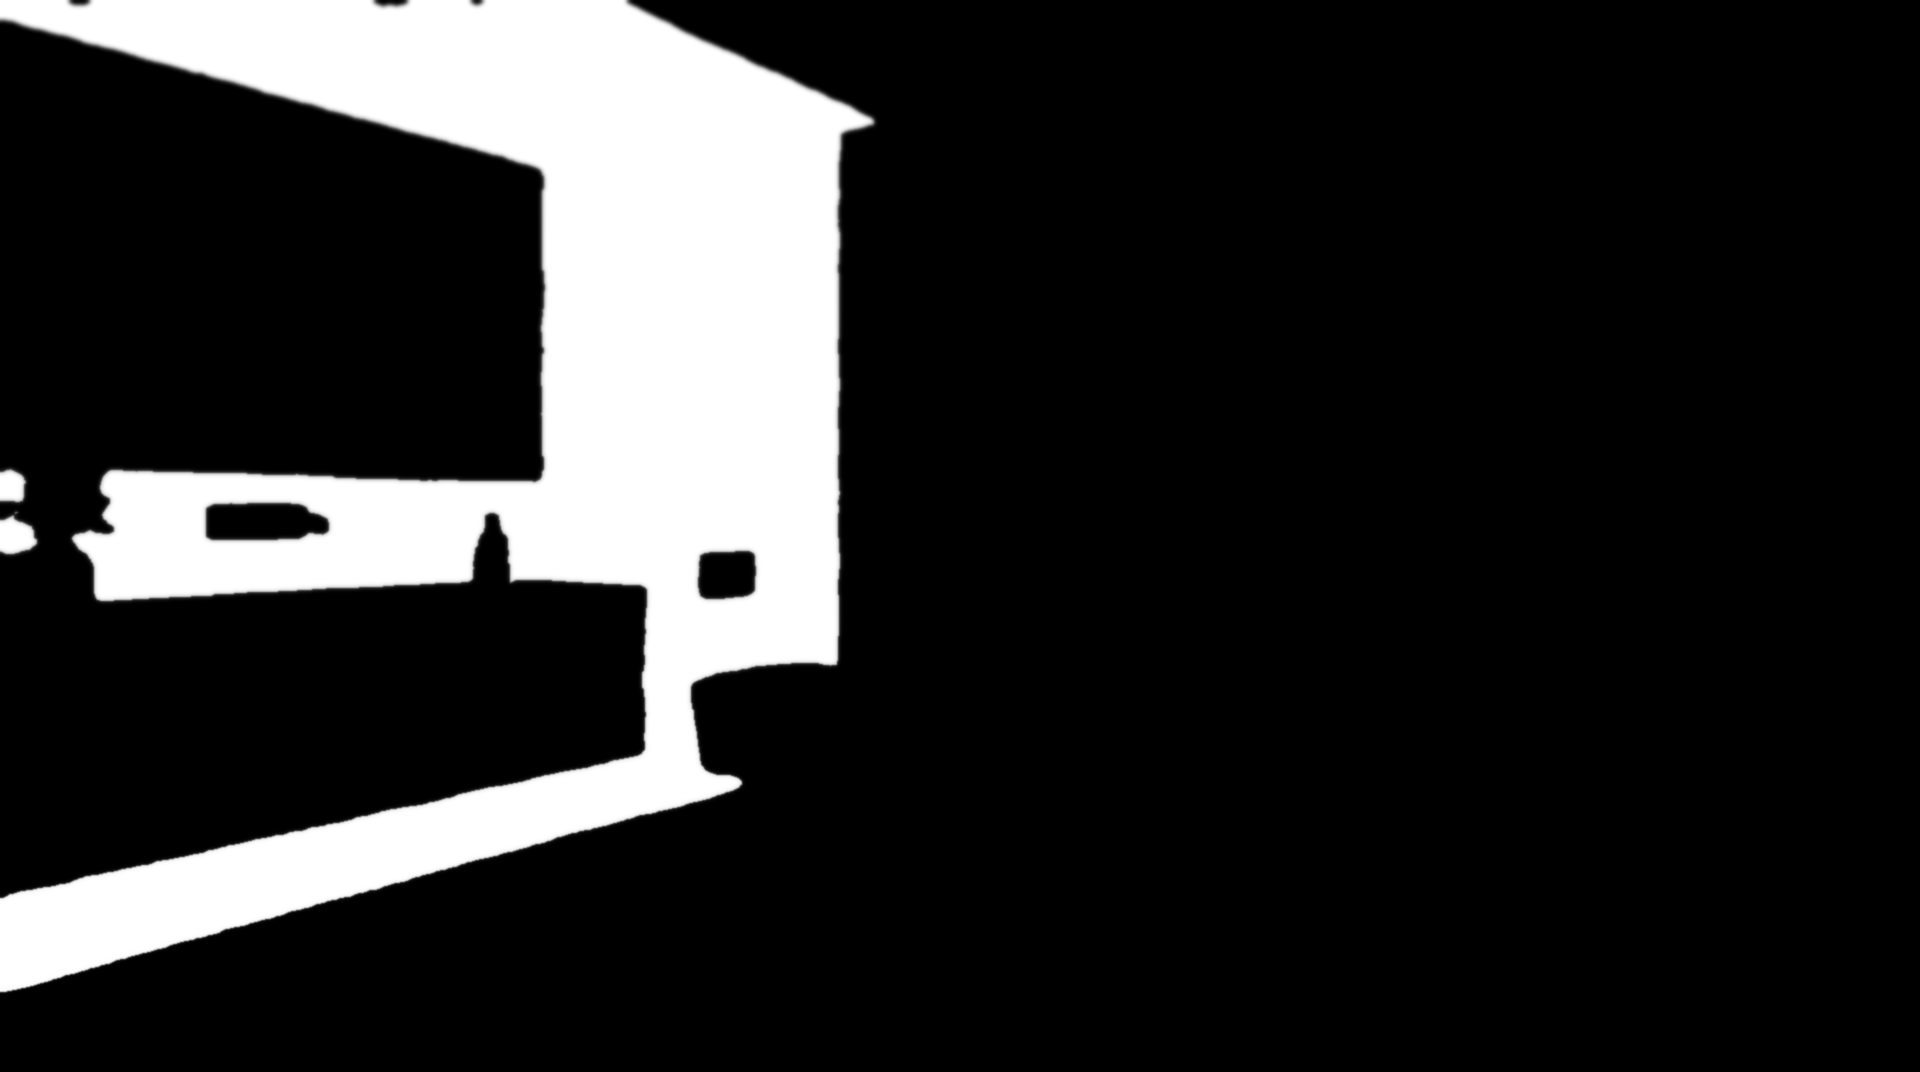
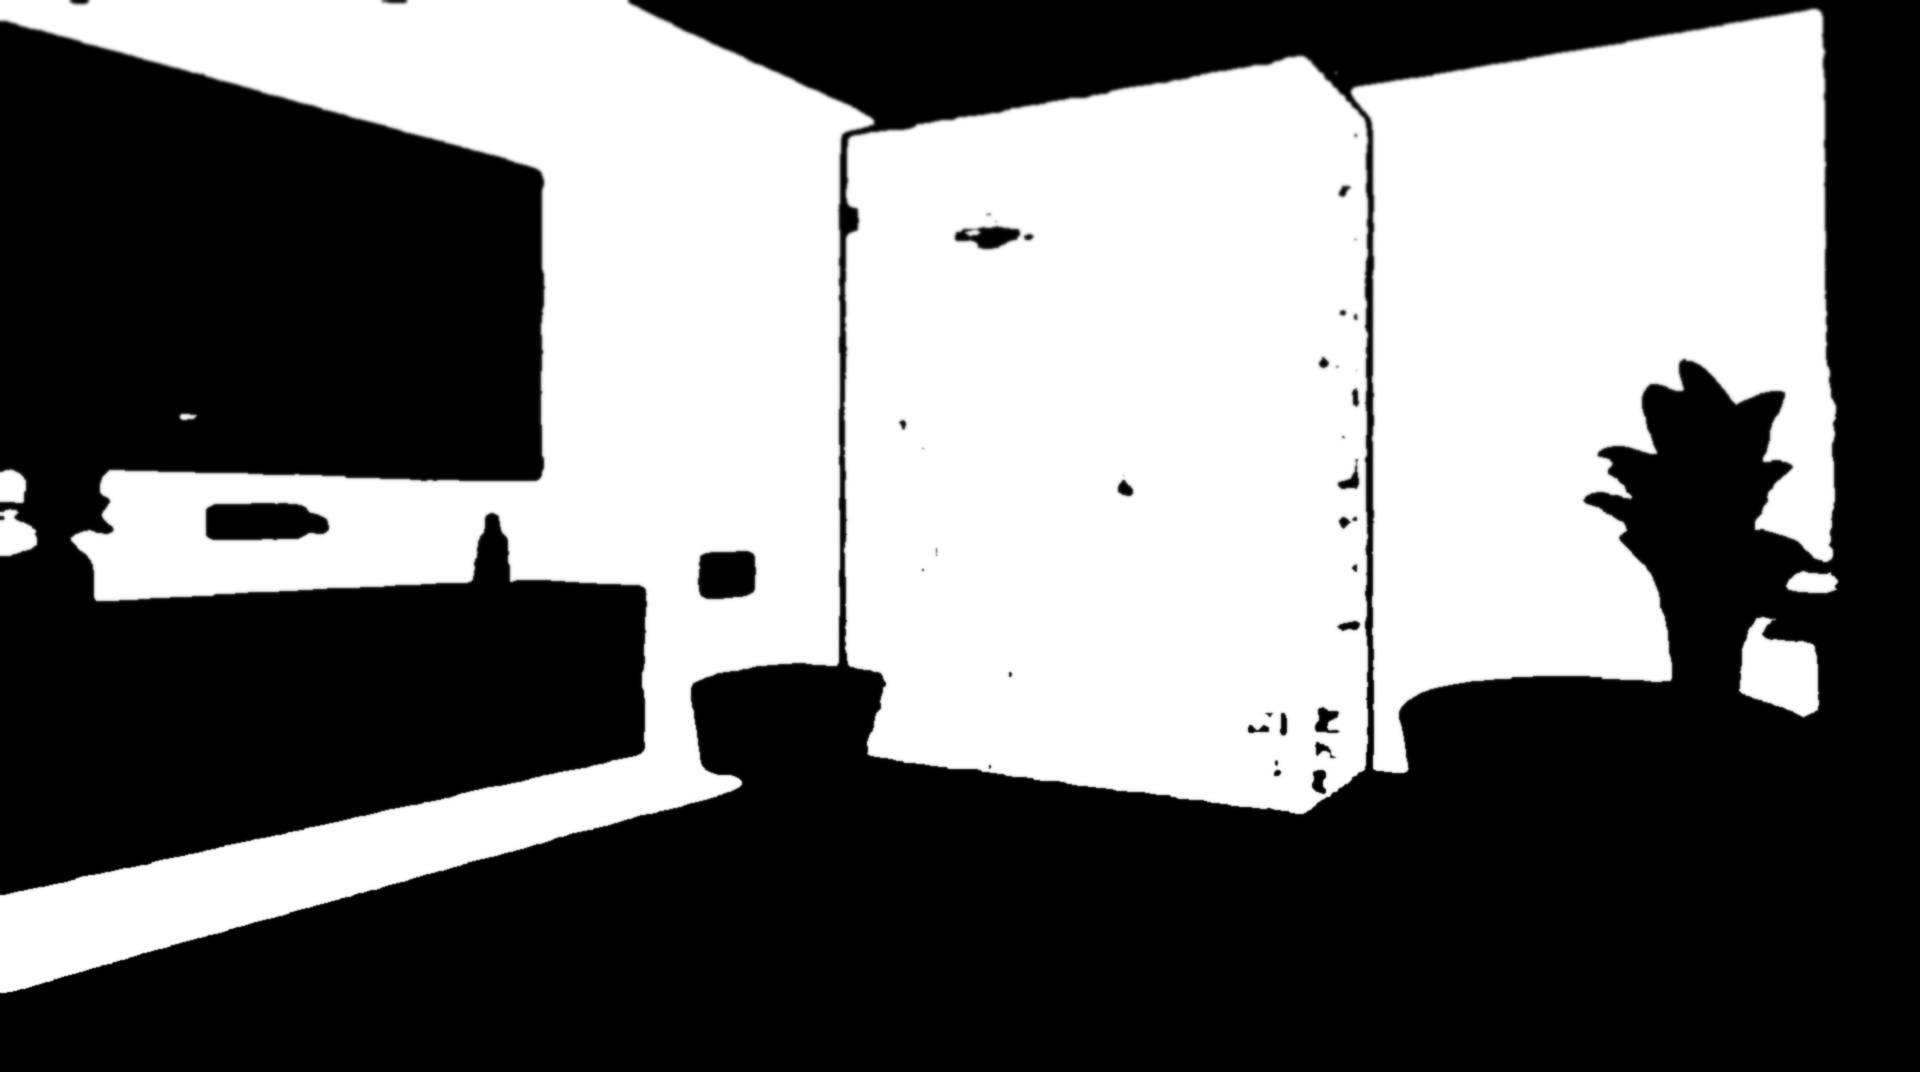
feat(2d): shareable deep links and expanded large-bath wall mask
Sync #visualizer?room=&floor=&wall=&scale= into the URL, add Copy link,
expand large-bathroom wall coverage via multi-SAM, and refresh WebP assets.

diff --git a/src/components/sections/Visualizer2D.jsx b/src/components/sections/Visualizer2D.jsx
@@ -82,21 +82,74 @@ function useIsMobile(breakpoint = 1024) {
   return mobile
 }
 
+/** Parse `#visualizer?room=&floor=&wall=&scale=` deep-link params. */
+function parseVisualizerHash() {
+  if (typeof window === 'undefined') return {}
+  const hash = window.location.hash || ''
+  if (!hash.includes('visualizer')) return {}
+  const q = hash.indexOf('?')
+  if (q < 0) return {}
+  try {
+    return Object.fromEntries(new URLSearchParams(hash.slice(q + 1)).entries())
+  } catch {
+    return {}
+  }
+}
+
+function productById(id) {
+  if (!id) return null
+  return strongProducts.find((p) => p.id === id) || products.find((p) => p.id === id) || null
+}
+
+function buildVisualizerHash(roomId, zoneTextures, tileScale) {
+  const params = new URLSearchParams()
+  params.set('room', roomId)
+  Object.entries(zoneTextures || {}).forEach(([zid, p]) => {
+    if (p?.id && !String(p.id).startsWith('custom-')) params.set(zid, p.id)
+  })
+  if (typeof tileScale === 'number') params.set('scale', tileScale.toFixed(2))
+  return `#visualizer?${params.toString()}`
+}
+
+function initialFromUrl() {
+  const p = parseVisualizerHash()
+  const room = rooms2d.find((r) => r.id === p.room) || rooms2d[0]
+  const textures = defaultZoneTextures(room.zones)
+  for (const z of room.zones) {
+    const pid = p[z.id]
+    const prod = productById(pid)
+    if (prod && surfaceMatches(prod.surface, z.surface)) textures[z.id] = prod
+  }
+  let scale = roomTileScale(room)
+  if (p.scale && !Number.isNaN(Number(p.scale))) {
+    scale = Math.min(1.8, Math.max(0.4, Number(p.scale)))
+  }
+  return {
+    roomId: room.id,
+    activeZoneId: room.zones[0].id,
+    zoneTextures: textures,
+    tileScale: scale,
+  }
+}
+
 export default function Visualizer2D() {
   const isMobile = useIsMobile(1024)
-  const [roomId, setRoomId] = useState(rooms2d[0].id)
+  const boot = useMemo(() => initialFromUrl(), [])
+  const [roomId, setRoomId] = useState(boot.roomId)
   const room = useMemo(
     () => rooms2d.find((r) => r.id === roomId) || rooms2d[0],
     [roomId],
   )
-  const [activeZoneId, setActiveZoneId] = useState(room.zones[0].id)
-  const [zoneTextures, setZoneTextures] = useState(() => defaultZoneTextures(room.zones))
-  const [tileScale, setTileScale] = useState(() => roomTileScale(room))
+  const [activeZoneId, setActiveZoneId] = useState(boot.activeZoneId)
+  const [zoneTextures, setZoneTextures] = useState(boot.zoneTextures)
+  const [tileScale, setTileScale] = useState(boot.tileScale)
   const [groutOn, setGroutOn] = useState(false)
   const [exporting, setExporting] = useState(false)
   const [sheetOpen, setSheetOpen] = useState(false)
   const [showScale, setShowScale] = useState(false)
+  const [linkCopied, setLinkCopied] = useState(false)
   const canvasRef = useRef(null)
+  const skipHashWrite = useRef(false)
 
   // Lock body scroll when mobile sheet is open
   useEffect(() => {
@@ -124,11 +177,30 @@ export default function Visualizer2D() {
     }
   }, [])
 
-  // Prefetch first room (+ next) as soon as the section mounts
+  // Prefetch active room (+ neighbours) on mount
   useEffect(() => {
-    preloadRoomAssets(rooms2d[0])
-    if (rooms2d[1]) preloadRoomAssets(rooms2d[1])
-  }, [])
+    preloadRoomAssets(room)
+    const idx = rooms2d.findIndex((r) => r.id === room.id)
+    if (idx >= 0) {
+      if (rooms2d[idx + 1]) preloadRoomAssets(rooms2d[idx + 1])
+      if (rooms2d[idx - 1]) preloadRoomAssets(rooms2d[idx - 1])
+    }
+  }, [room])
+
+  // Keep shareable deep-link in the URL (room + zone product ids + scale)
+  useEffect(() => {
+    if (typeof window === 'undefined') return undefined
+    if (skipHashWrite.current) {
+      skipHashWrite.current = false
+      return undefined
+    }
+    const nextHash = buildVisualizerHash(roomId, zoneTextures, tileScale)
+    if (window.location.hash !== nextHash) {
+      const url = `${window.location.pathname}${window.location.search}${nextHash}`
+      window.history.replaceState(null, '', url)
+    }
+    return undefined
+  }, [roomId, zoneTextures, tileScale])
 
   // Catalogue "Try Visualizer" → apply product onto matching zone(s)
   useEffect(() => {
@@ -143,13 +215,11 @@ export default function Visualizer2D() {
           if (surfaceMatches(product.surface, z.surface)) {
             next[z.id] = product
             applied = true
-            // Prefer floor first when product is Both / Floor
             if (z.surface === 'Floor' || z.id === 'floor') {
               setActiveZoneId(z.id)
             }
           }
         }
-        // Only apply when surface matches a zone — don't force wall tile onto stairs-only room
         if (!applied) return prev
         return next
       })
@@ -167,6 +237,19 @@ export default function Visualizer2D() {
   const onSwatchPick = useCallback((zoneId, swatch) => {
     setZoneTextures((prev) => ({ ...prev, [zoneId]: swatch }))
   }, [])
+
+  const handleCopyLink = useCallback(async () => {
+    const hash = buildVisualizerHash(roomId, zoneTextures, tileScale)
+    const full = `${window.location.origin}${window.location.pathname}${hash}`
+    try {
+      await navigator.clipboard.writeText(full)
+      setLinkCopied(true)
+      window.setTimeout(() => setLinkCopied(false), 1800)
+    } catch {
+      // Fallback for older browsers
+      window.prompt('Copy this link:', full)
+    }
+  }, [roomId, zoneTextures, tileScale])
 
   const onCustomUpload = useCallback((zoneId, file) => {
     const result = validateImageFile(file)
@@ -342,6 +425,14 @@ export default function Visualizer2D() {
                 </button>
                 <button
                   type="button"
+                  onClick={handleCopyLink}
+                  className="inline-flex h-10 items-center justify-center gap-1 rounded-btn border border-white/10 bg-charcoal px-2.5 text-[11px] font-medium text-sand touch-manipulation"
+                  aria-label="Copy share link"
+                >
+                  {linkCopied ? 'Copied' : 'Link'}
+                </button>
+                <button
+                  type="button"
                   onClick={handleScreenshot}
                   disabled={exporting}
                   className="inline-flex h-10 items-center justify-center gap-1 rounded-btn border border-gold/40 bg-gold/10 px-2.5 text-[11px] font-semibold text-gold touch-manipulation disabled:opacity-60"
@@ -499,6 +590,13 @@ export default function Visualizer2D() {
                 >
                   <Icon name="compass" className="h-3.5 w-3.5" />
                   Reset
+                </button>
+                <button
+                  type="button"
+                  onClick={handleCopyLink}
+                  className="inline-flex items-center gap-1.5 rounded-btn border border-white/10 bg-charcoal px-3 py-1.5 text-xs font-medium text-sand transition hover:border-gold/40 hover:text-cream"
+                >
+                  {linkCopied ? 'Link copied' : 'Copy link'}
                 </button>
                 <button
                   type="button"

diff --git a/src/components/visualizer2d/composeRoom.js b/src/components/visualizer2d/composeRoom.js
@@ -458,7 +458,7 @@ function resolveTextureUrl(product, tier = 'full') {
 function layerCacheKey(zoneId, product, tileScale, w, h, tier, groutOn, hasPersp, lightStr) {
   const id = product?.id || product?.url || 'none'
   // bump suffix when lighting/scale bake changes so old cache entries are not reused
-  return `${zoneId}|${id}|${tileScale}|${w}x${h}|${tier}|g${groutOn ? 1 : 0}|p${hasPersp ? 1 : 0}|L${lightStr}|r7`
+  return `${zoneId}|${id}|${tileScale}|${w}x${h}|${tier}|g${groutOn ? 1 : 0}|p${hasPersp ? 1 : 0}|L${lightStr}|r8`
 }
 
 async function buildZoneLayer({

diff --git a/docs/2d-visualizer-pipeline.md b/docs/2d-visualizer-pipeline.md
@@ -385,8 +385,16 @@ Tune by eye until grout lines vanish correctly into the room; leave omitted for 
 | **WebP room packs** | `npm run build:2d-webp` → `.webp` for base/overlay/masks; `rooms2d.js` serves WebP |
 | **Preload** | `preloadRoomAssets()` on mount + room switch |
 | **Catalogue → 2D** | `view-in-2d` custom event applies product to matching zones |
+| **Deep links** | `#visualizer?room=&floor=&wall=&scale=` + **Copy link** button |
 | **Mobile lite-first** | `RoomCanvas preferLiteFirst` on small screens |
 | PNG sources | Kept for Python/SAM tooling; browser uses WebP |
+
+### Deep-link examples
+
+```
+#visualizer?room=large-bathroom-b&floor=gt-floor-p12-t1&wall=sky12x18-p03-v1&scale=0.50
+#visualizer?room=staircase-c&floor=gt-floor-p20-t2&scale=0.55
+```
 
 ---
 
